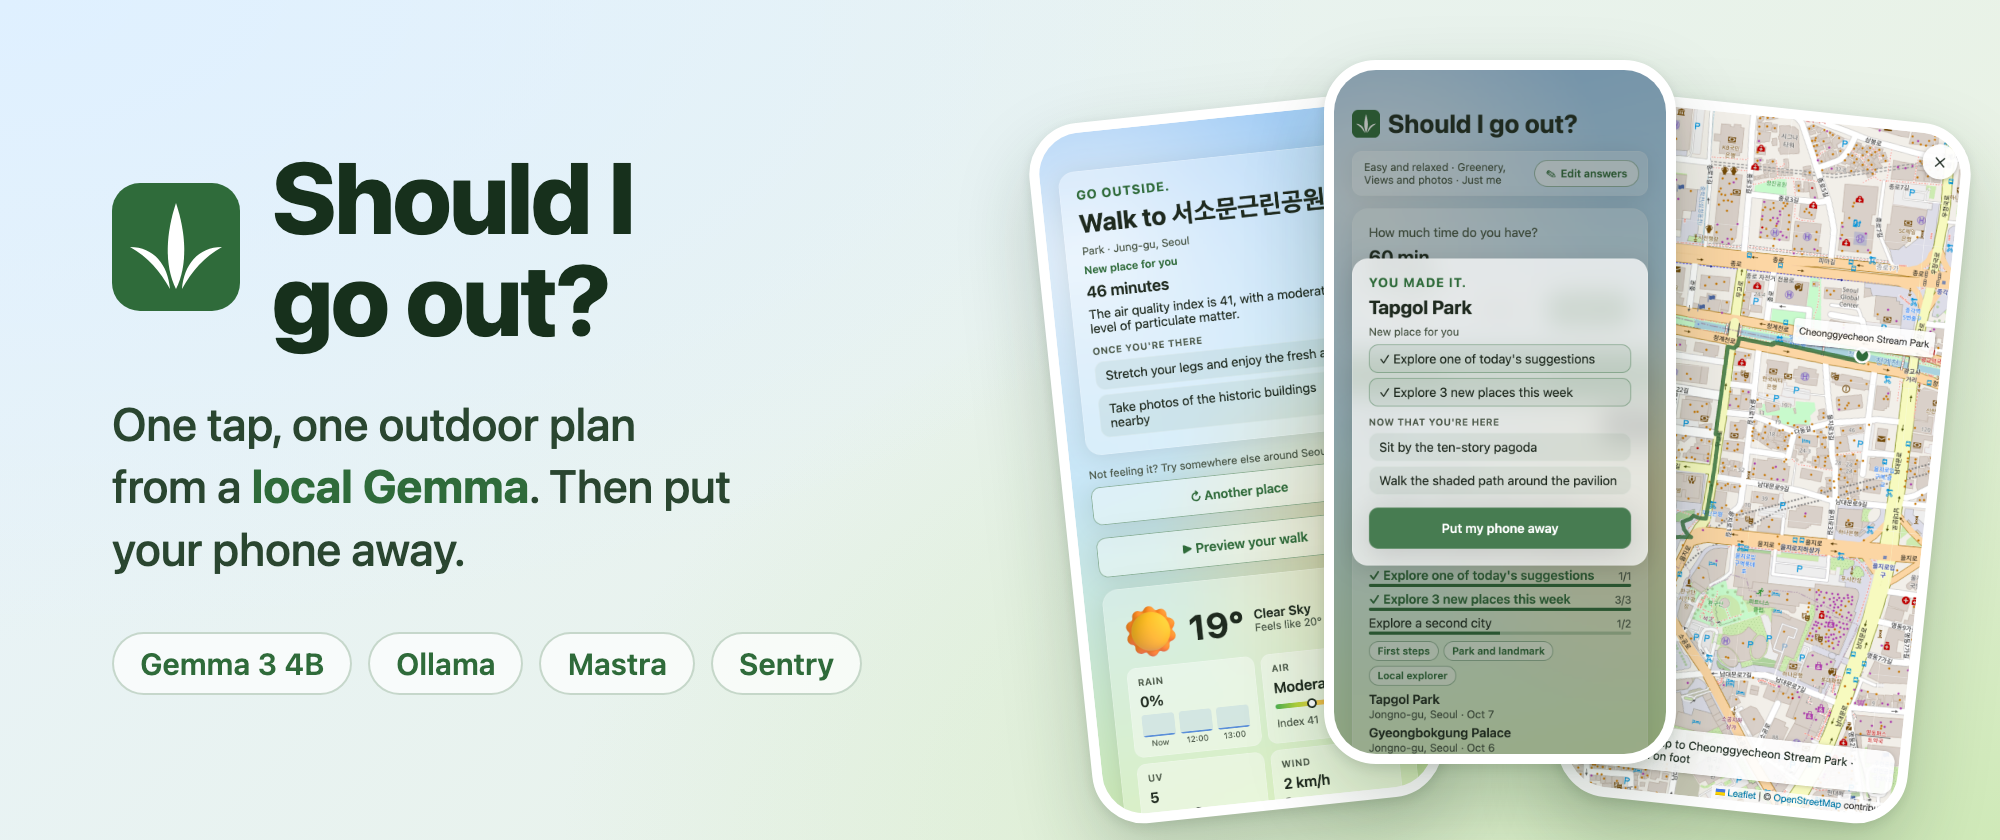
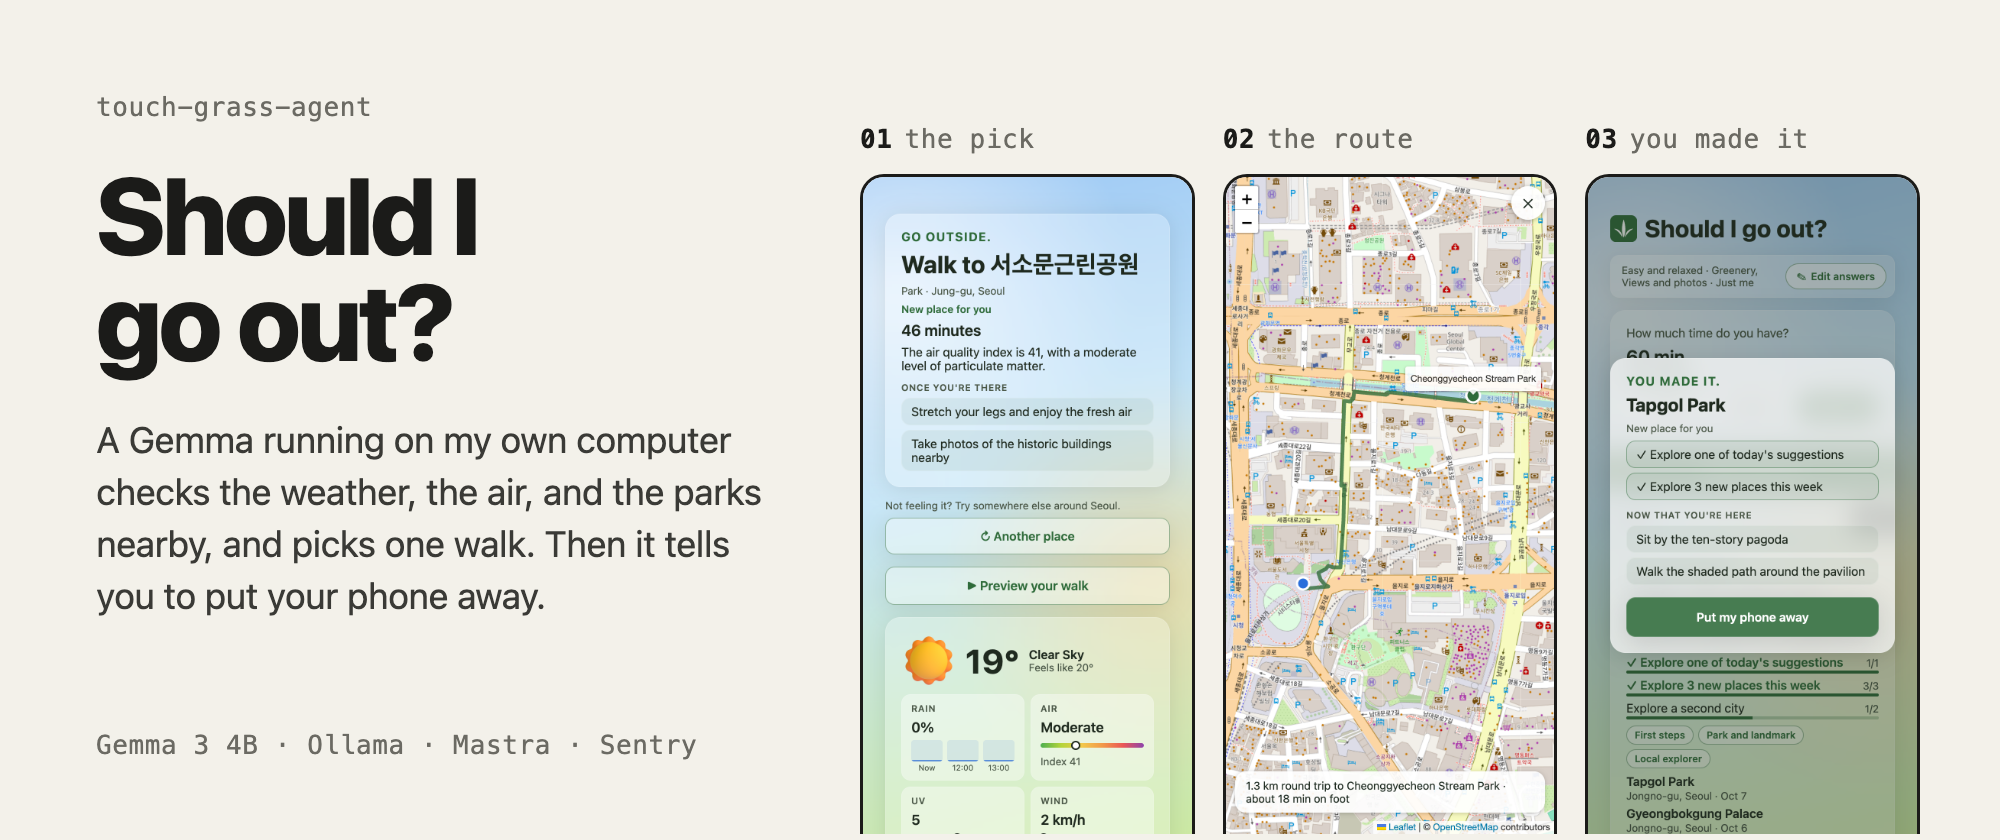
docs: plainer cover layout
- Drop the gradient, tilted phones, logo tile, and chips
- Show three straight, numbered screens that run off the bottom
- Update the README alt text to match

diff --git a/docs/cover.html b/docs/cover.html
@@ -7,58 +7,37 @@
   html, body { width: 1000px; height: 420px; overflow: hidden; }
   body {
     font-family: -apple-system, BlinkMacSystemFont, "SF Pro Display", "Apple SD Gothic Neo", sans-serif;
-    background:
-      radial-gradient(120% 140% at 0% 0%, #dff0ff 0%, transparent 55%),
-      radial-gradient(120% 140% at 100% 100%, #cfe9b8 0%, transparent 60%),
-      linear-gradient(135deg, #e8f3fb 0%, #e9f2df 100%);
-    color: #17301c;
+    background: #f3f1ea;
+    color: #1b1b19;
     position: relative;
   }
-  .text { position: absolute; left: 56px; top: 0; bottom: 0; width: 470px; display: flex; flex-direction: column; justify-content: center; }
-  .brand { display: flex; align-items: center; gap: 16px; }
-  .brand svg { width: 64px; height: 64px; flex: none; }
-  h1 { font-size: 50px; line-height: 1.02; letter-spacing: -1.2px; font-weight: 800; }
-  .tagline { margin-top: 22px; font-size: 23px; line-height: 1.35; color: #2a4630; font-weight: 500; }
-  .tagline b { color: #2f6b3a; }
-  .chips { margin-top: 26px; display: flex; flex-wrap: wrap; gap: 8px; }
-  .chip { font-size: 15px; font-weight: 600; color: #2f6b3a; background: rgba(255,255,255,.7); border: 1px solid rgba(47,107,58,.25); border-radius: 999px; padding: 6px 13px; }
-  .phones { position: absolute; right: 30px; top: 0; bottom: 0; width: 440px; }
-  .phone {
-    position: absolute; width: 176px; height: 352px; border-radius: 26px; overflow: hidden;
-    border: 5px solid #fff; box-shadow: 0 18px 40px rgba(23,48,28,.22), 0 2px 6px rgba(23,48,28,.12);
-    background: #fff;
+  .mono { font-family: "SF Mono", Menlo, monospace; font-size: 13px; letter-spacing: .3px; color: #6b6a63; }
+  .text { position: absolute; left: 48px; top: 46px; bottom: 40px; width: 350px; display: flex; flex-direction: column; }
+  h1 { margin-top: 20px; font-size: 54px; line-height: .98; letter-spacing: -1.8px; font-weight: 800; }
+  .tagline { margin-top: 20px; font-size: 18px; line-height: 1.45; color: #3a3a36; }
+  .stack { margin-top: auto; }
+  .shots { position: absolute; left: 430px; right: 40px; top: 62px; display: flex; gap: 14px; }
+  .shot { flex: 1; }
+  .shot .mono { display: block; margin-bottom: 10px; }
+  .shot .mono b { color: #1b1b19; font-weight: 600; margin-right: 6px; }
+  .frame {
+    border: 1.5px solid #1b1b19; border-bottom: 0;
+    border-radius: 12px 12px 0 0; overflow: hidden; background: #fff;
   }
-  .phone img { width: 100%; height: 100%; object-fit: cover; object-position: top; display: block; }
-  .p1 { left: 0; top: 54px; transform: rotate(-6deg); }
-  .p2 { left: 132px; top: 30px; z-index: 2; }
-  .p3 { left: 264px; top: 54px; transform: rotate(6deg); }
+  .frame img { width: 100%; height: auto; display: block; }
 </style>
 </head>
 <body>
   <div class="text">
-    <div class="brand">
-      <svg viewBox="0 0 64 64" aria-hidden="true">
-        <rect width="64" height="64" rx="14" fill="#2f6b3a" />
-        <g fill="#fff">
-          <path d="M32 53C26 41 27 25 32 10C37 25 38 41 32 53Z" />
-          <path d="M29 53C24 44 18 37 9 32C21 32 28 41 29 53Z" />
-          <path d="M35 53C40 44 46 37 55 32C43 32 36 41 35 53Z" />
-        </g>
-      </svg>
-      <h1>Should I<br />go out?</h1>
-    </div>
-    <p class="tagline">One tap, one outdoor plan<br />from a <b>local Gemma</b>. Then put<br />your phone away.</p>
-    <div class="chips">
-      <span class="chip">Gemma 3 4B</span>
-      <span class="chip">Ollama</span>
-      <span class="chip">Mastra</span>
-      <span class="chip">Sentry</span>
-    </div>
+    <p class="mono">touch-grass-agent</p>
+    <h1>Should I<br />go out?</h1>
+    <p class="tagline">A Gemma running on my own computer checks the weather, the air, and the parks nearby, and picks one walk. Then it tells you to put your phone away.</p>
+    <p class="mono stack">Gemma 3 4B · Ollama · Mastra · Sentry</p>
   </div>
-  <div class="phones">
-    <div class="phone p1"><img src="result.png" /></div>
-    <div class="phone p2"><img src="arrival.png" /></div>
-    <div class="phone p3"><img src="map-full.png" /></div>
+  <div class="shots">
+    <div class="shot"><span class="mono"><b>01</b>the pick</span><div class="frame"><img src="result.png" /></div></div>
+    <div class="shot"><span class="mono"><b>02</b>the route</span><div class="frame"><img src="map-full.png" /></div></div>
+    <div class="shot"><span class="mono"><b>03</b>you made it</span><div class="frame"><img src="arrival.png" /></div></div>
   </div>
 </body>
 </html>

diff --git a/README.md b/README.md
@@ -1,6 +1,6 @@
 # Should I go out?
 
-![Should I go out? with the grass logo: one tap, one outdoor plan from a local Gemma, then put your phone away. Three phone screens show a suggested walk to 서소문근린공원, the You made it check-in at Tapgol Park, and the route map to Cheonggyecheon Stream Park](docs/cover.png)
+![Should I go out? A Gemma running on my own computer checks the weather, the air, and the parks nearby, and picks one walk, then tells you to put your phone away. Three numbered phone screens in a row: 01 the pick, a suggested walk to 서소문근린공원; 02 the route, the map to Cheonggyecheon Stream Park; 03 you made it, the check-in at Tapgol Park](docs/cover.png)
 
 One tap, one suggestion, then put your phone away.
 
